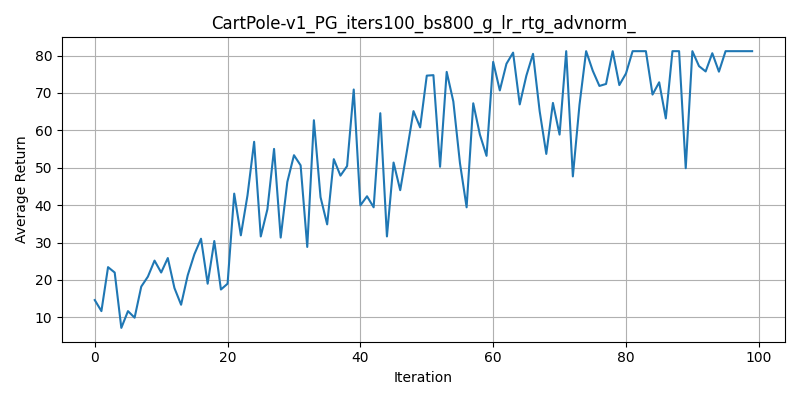
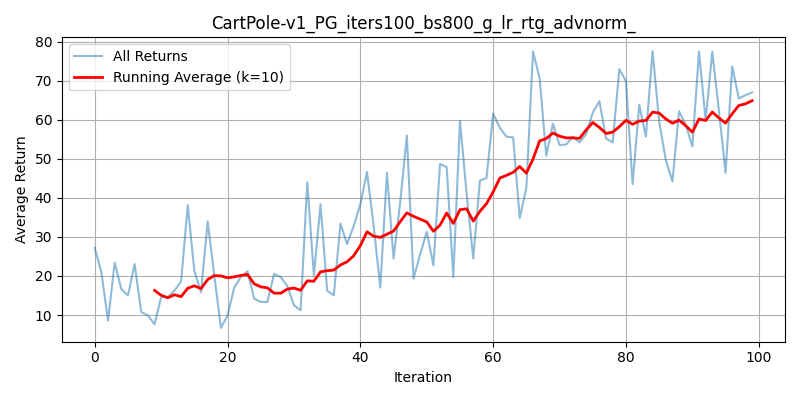
Lunar Lander

diff --git a/LunarLander/part(b)/LunarLander-PG-b.py b/LunarLander/part(b)/LunarLander-PG-b.py
@@ -63,8 +63,27 @@ def run_training(env_name, iterations, batch_size, lr, gamma,
     print(f"\nTraining {env_name} | γ={gamma} | lr={lr} | batch={batch_size} | device={device}")
 
     all_returns = []
+    best_return = float('-inf')
+    best_policy_state = None
 
     for it in range(iterations):
+        # Evaluate current best policy
+        with torch.no_grad():
+            eval_obs = get_obs(env.reset())
+            eval_rewards = []
+            eval_done = False
+            while not eval_done:
+                eval_obs_tensor = torch.tensor(eval_obs, dtype=torch.float32, device=device).unsqueeze(0)
+                eval_probs = policy(eval_obs_tensor)
+                # Use best action (no sampling)
+                eval_action = torch.argmax(eval_probs)
+                eval_next_obs, eval_reward, eval_done, _ = step_env(env, eval_action.item())
+                eval_rewards.append(eval_reward)
+                eval_obs = get_obs(eval_next_obs)
+            eval_return = sum(eval_rewards)
+            print(f"Iter {it+1:4d}/{iterations} | Best Policy Return: {eval_return:8.2f}")
+
+        # Collect training data with exploration
         batch_obs, batch_acts, batch_weights = [], [], []
         ep_returns = []
         log_probs = []
@@ -80,6 +99,7 @@ def run_training(env_name, iterations, batch_size, lr, gamma,
                 probs = policy(obs_tensor)
                 dist = Categorical(probs)
                 action = dist.sample()
+
 
                 next_obs, reward, done, _ = step_env(env, action.item())
                 if reward_scale != 1.0:
@@ -114,13 +134,16 @@ def run_training(env_name, iterations, batch_size, lr, gamma,
         log_probs_tensor = torch.stack(log_probs).to(device)
         advantages = torch.tensor(batch_weights, dtype=torch.float32, device=device)
 
+        # Ensure dimensions match
+        advantages = advantages.reshape(-1)  # Flatten to 1D
+        log_probs_tensor = log_probs_tensor.reshape(-1)  # Flatten to 1D
+
         # Baseline + normalization
         if advantage_norm:
-            advantages -= advantages.mean()
-            advantages /= (advantages.std(unbiased=False) + 1e-8)
+            advantages = (advantages - advantages.mean()) / (advantages.std() + 1e-8)
 
-        # Policy gradient loss
-        loss = (-(log_probs_tensor * advantages)).mean()
+
+        loss = -(log_probs_tensor * advantages).mean()
 
         optimizer.zero_grad()
         loss.backward()
@@ -133,23 +156,50 @@ def run_training(env_name, iterations, batch_size, lr, gamma,
 
         print(f"Iter {it+1:4d}/{iterations} | AvgReturn: {avg_return:8.2f} | Loss: {loss:.4f}")
 
+        # Evaluate current policy
+        with torch.no_grad():
+            eval_obs = get_obs(env.reset())
+            eval_rewards = []
+            eval_done = False
+            while not eval_done:
+                eval_obs_tensor = torch.tensor(eval_obs, dtype=torch.float32, device=device).unsqueeze(0)
+                eval_probs = policy(eval_obs_tensor)
+                eval_action = torch.argmax(eval_probs)
+                eval_next_obs, eval_reward, eval_done, _ = step_env(env, eval_action.item())
+                eval_rewards.append(eval_reward)
+                eval_obs = get_obs(eval_next_obs)
+            current_eval_return = sum(eval_rewards)
+
+            # Update best policy if current one is better
+            if current_eval_return > best_return:
+                best_return = current_eval_return
+                best_policy_state = policy.state_dict().copy()
+                print(f"New best policy found. Return: {best_return:8.2f}")
+            else:
+                # Load best policy for next iteration
+                policy.load_state_dict(best_policy_state)
+                print(f"Reverting to best policy (Return: {best_return:8.2f})")
+
     env.close()
+   
+    k = 10
+    running_avg = np.convolve(all_returns, np.ones(k)/k, mode='valid')
     plt.figure(figsize=(8, 4))
-    plt.plot(all_returns)
+    plt.plot(all_returns, label="All Returns", alpha=0.5)
+    plt.plot(np.arange(k-1, len(all_returns)), running_avg, label=f"Running Average (k={k})", color='r', linewidth=2)
     plt.title(f"{fname}")
     plt.xlabel("Iteration")
     plt.ylabel("Average Return")
-    # plt.yscale('log')
     plt.grid(True)
+    plt.legend()
     plt.tight_layout()
-    
-    plt.savefig(fname)
+    plt.savefig(fname + ".png")
     print(f"Plot saved as {fname}\n")
     return all_returns
 
 if __name__ == "__main__":
     parser = argparse.ArgumentParser()
-    parser.add_argument("--environment", type=str, default="CartPole-v1")
+    parser.add_argument("--environment", type=str, default="LunarLander-v3")
     parser.add_argument("--iterations", type=int, default=300)
     parser.add_argument("--batch_size", type=int, default=8000)
     parser.add_argument("--lr", type=float, default=1e-3)
@@ -169,7 +219,7 @@ if __name__ == "__main__":
         clip_tuple = (lo, hi)
 
     device = torch.device("cuda" if torch.cuda.is_available() else "cpu")
-    fname = f"{args.environment}_PG_iters{args.iterations}_bs{args.batch_size}_g_lr_{'rtg' if args.reward_to_go else 'tot'}_{'advnorm' if args.advantage_norm else 'noadv'}_.png"
+    fname = f"{args.environment}_PG_iters{args.iterations}_bs{args.batch_size}_g_lr_{'rtg' if args.reward_to_go else 'tot'}_{'advnorm' if args.advantage_norm else 'noadv'}_"
     run_training(
         env_name=args.environment,
         iterations=args.iterations,

diff --git a/CartPole/part(c)/CartPole-PG-b.py b/CartPole/part(c)/CartPole-PG-b.py
@@ -174,23 +174,26 @@ def run_training(env_name, iterations, batch_size, lr, gamma,
             if current_eval_return > best_return:
                 best_return = current_eval_return
                 best_policy_state = policy.state_dict().copy()
-                print(f"New best policy found! Return: {best_return:8.2f}")
+                print(f"New best policy found. Return: {best_return:8.2f}")
             else:
                 # Load best policy for next iteration
                 policy.load_state_dict(best_policy_state)
                 print(f"Reverting to best policy (Return: {best_return:8.2f})")
 
     env.close()
+   
+    k = 50
+    running_avg = np.convolve(all_returns, np.ones(k)/k, mode='valid')
     plt.figure(figsize=(8, 4))
-    plt.plot(all_returns)
+    plt.plot(all_returns, label="All Returns", alpha=0.5)
+    plt.plot(np.arange(k-1, len(all_returns)), running_avg, label=f"Running Average (k={k})", color='r', linewidth=2)
     plt.title(f"{fname}")
     plt.xlabel("Iteration")
     plt.ylabel("Average Return")
-    # plt.yscale('log')
     plt.grid(True)
+    plt.legend()
     plt.tight_layout()
-    
-    plt.savefig(fname+".png")
+    plt.savefig(fname + ".png")
     print(f"Plot saved as {fname}\n")
     return all_returns
 

diff --git a/LunarLander/part(c)/LunarLander-PG-b.py b/LunarLander/part(c)/LunarLander-PG-b.py
@@ -182,7 +182,7 @@ def run_training(env_name, iterations, batch_size, lr, gamma,
 
     env.close()
    
-    k = 10
+    k = 100
     running_avg = np.convolve(all_returns, np.ones(k)/k, mode='valid')
     plt.figure(figsize=(8, 4))
     plt.plot(all_returns, label="All Returns", alpha=0.5)
@@ -199,7 +199,7 @@ def run_training(env_name, iterations, batch_size, lr, gamma,
 
 if __name__ == "__main__":
     parser = argparse.ArgumentParser()
-    parser.add_argument("--environment", type=str, default="CartPole-v1")
+    parser.add_argument("--environment", type=str, default="LunarLander-v3")
     parser.add_argument("--iterations", type=int, default=300)
     parser.add_argument("--batch_size", type=int, default=8000)
     parser.add_argument("--lr", type=float, default=1e-3)

diff --git a/LunarLander/part(c)/LunarLander-PG-c.py b/LunarLander/part(c)/LunarLander-PG-c.py
@@ -13,18 +13,18 @@ import sys
 
 # Fixed settings
 environment = "CartPole-v1"
-iterations = 1000
+iterations = 2000
 learning_rate = 1e-3
 gamma = 0.99
 
 # Batch sizes to compare
-batch_sizes = [32, 320, 800, 1000]
+batch_sizes = [40, 400, 4000]
 
 # Store results
 batch_rewards = {}
 
 for b in batch_sizes:
-    script_path = os.path.join(os.path.dirname(__file__), "CartPole-PG-b.py")
+    script_path = os.path.join(os.path.dirname(__file__), "LunarLander-PG-b.py")
     try:
         result = subprocess.run(
             [
